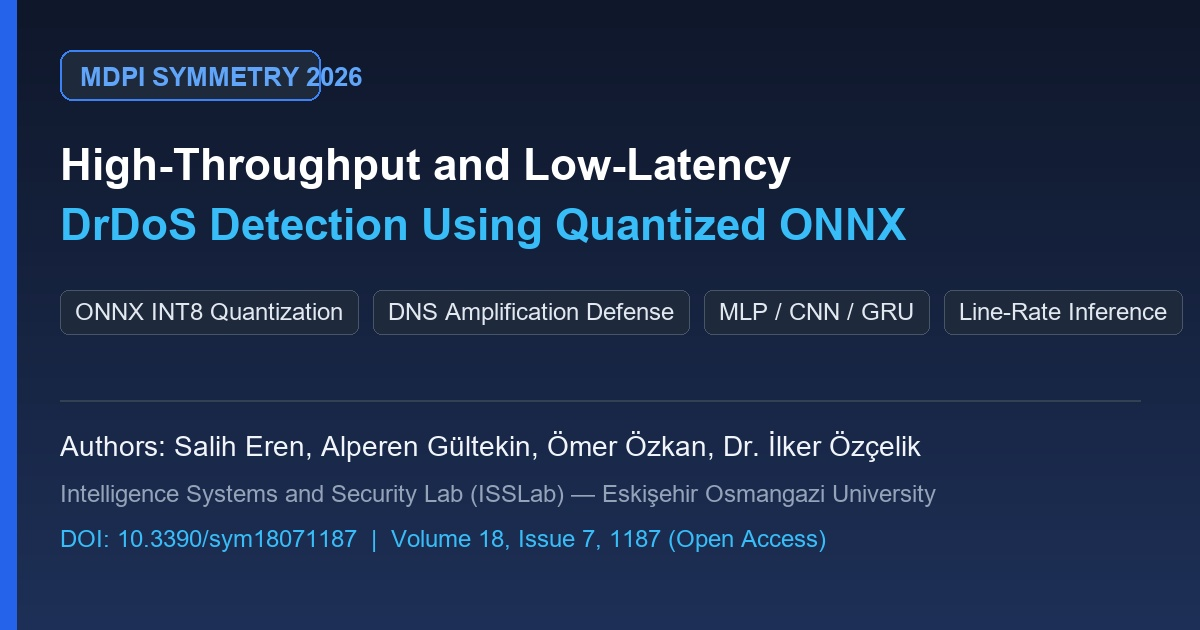
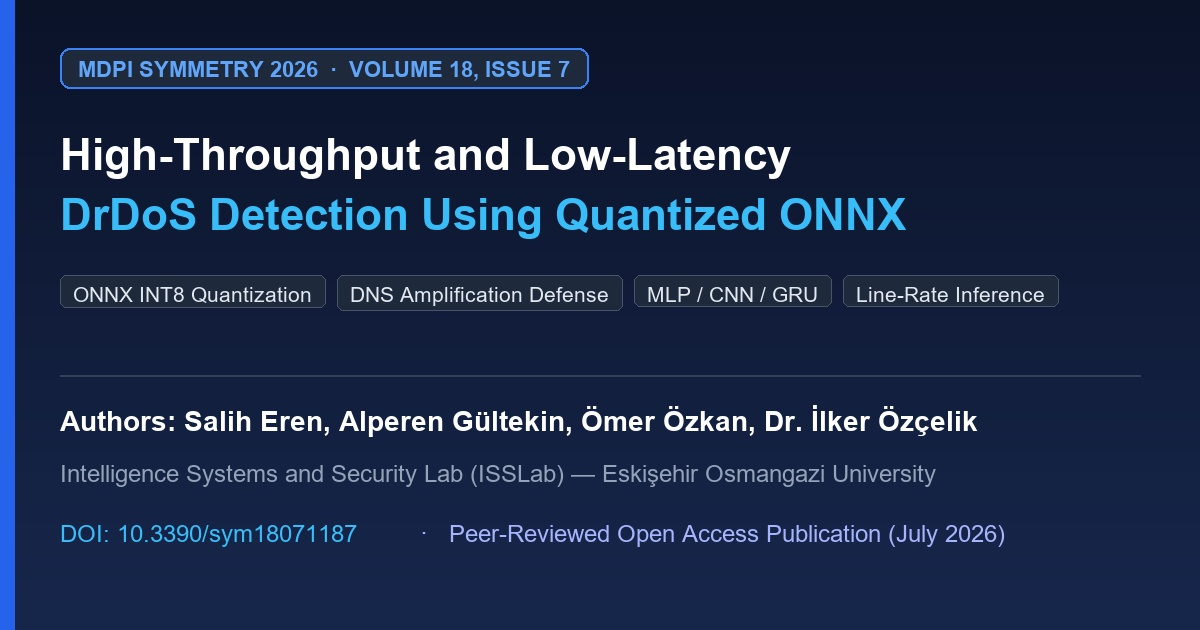
Update

Changed region(s): [[0.0, 0.0, 0.925, 1.0], [0.0617, 0.4524, 0.9867, 0.5127], [0.0617, 0.573, 0.925, 0.6032]]

diff --git a/content/_newsfeed/2026-02-15-isslab-ogrenci-ve-arastirmaci-daveti.md b/content/_newsfeed/2026-02-15-isslab-ogrenci-ve-arastirmaci-daveti.md
@@ -12,23 +12,25 @@ linkedin_url: "https://www.linkedin.com/groups/9539313/"
 The **Intelligent Systems Security Research Laboratory (ISSLab)** at Eskişehir Osmangazi University invites motivated undergraduate and graduate student researchers to join our team in network security, AI-assisted cyber defense, quantized deep learning models, blockchain architectures, and IoT security!
 
 <div class="my-4 text-center">
-  <img src="/assets/images/news/call-for-projects.jpg" alt="ISSLab 2026 Call for Projects" class="img-fluid rounded shadow-sm" style="max-height: 380px; object-fit: cover;">
+  <a href="https://www.youtube.com/watch?v=w57ojUBgFFE" target="_blank" rel="noopener noreferrer">
+    <img src="/assets/images/news/call-for-projects.jpg" alt="ISSLab 2026 Call for Projects" class="img-fluid rounded shadow-sm" style="max-height: 380px; object-fit: cover;">
+  </a>
   <p class="text-muted small mt-2"><em>ISSLab 2026 Community Call for Projects and Student Mentorship</em></p>
 </div>
 
 Researchers at ISS Lab take active roles in **TÜBİTAK 3501**, **TÜBİTAK 2209-A/B**, and **DorukNet** industry-collaborative projects, with opportunities to contribute directly to international conferences and high-impact journals.
 
-#### Open Research Areas
+#### Ongoing Projects & Research Areas
 
-- **Network Security & Traffic Monitoring:** Flowzen architecture, SDN data planes, P4 programming, high-throughput zero-copy packet capture, and real-time anomaly detection.
-- **AI-Powered Cyber Defense:** Quantized ONNX models for DrDoS mitigation, deep learning IP spoofing classifiers, and Graph Neural Networks (GNN) for botnet detection.
-- **Blockchain & Distributed Systems:** Cryptographic accumulators, the BEATS audit trail architecture, and decentralized identity verification.
-- **Embedded Systems & IoT Security:** Hardware-level Elliptic Curve Cryptography (ECC) acceleration on STM32 microcontrollers.
+- **Scalable Edge Authentication Framework (TÜBİTAK 3501):** [View Project Details](/projects/Research_Project_1/) · [Official Portal](https://issedgeauthentication.wordpress.com/)
+- **ISS — DorukNet Data Center Security (Flowzen & Iris):** [View Project Details](/projects/Research_Project_2/) · [Official Portal](https://issdatacentersecurity.wordpress.com/)
+- **Digital Twin Based Smart Attack Detection:** [View Project Details](/projects/Research_Project_4/) · [Research Hub](https://esoguiss.wordpress.com/intelligent-systems/)
+- **BEATS — Practical Blockchain Audit Trail:** [View Project Details](/projects/Research_Project_5/) · [Research Hub](https://esoguiss.wordpress.com/distributed-systems/)
 
 #### Participation & Channel Links
 
 1. 📺 **YouTube Video & Seminar Archive:** Watch our lab vision and technical presentations:  
-   👉 [YouTube: @isslab_tr](https://www.youtube.com/watch?v=w57ojUBgFFE)
+   👉 [YouTube: Watch Call for Projects Video](https://www.youtube.com/watch?v=w57ojUBgFFE)
 
 2. 💼 **LinkedIn ISSLab Community Group:** Join our professional network for academic announcements and research opportunities:  
    👉 [LinkedIn: ISSLab Community Group](https://www.linkedin.com/groups/9539313/)

diff --git a/content/_newsfeed/2026-07-14-drdos-quantized-onnx-symmetry.md b/content/_newsfeed/2026-07-14-drdos-quantized-onnx-symmetry.md
@@ -11,18 +11,20 @@ banner_image_source: "/assets/images/news/symmetry-drdos-paper.jpg"
 The latest research by ISS Lab researchers **Salih Eren**, **Alperen Gültekin**, **Ömer Özkan**, and **Dr. İlker Özçelik**, titled *"High-Throughput and Low-Latency DrDoS Detection Using Quantized ONNX Models"*, has been published in **Symmetry (MDPI)**.
 
 <div class="my-4 text-center">
-  <img src="/assets/images/news/symmetry-drdos-paper.jpg" alt="Quantized ONNX DrDoS Detection Paper Banner" class="img-fluid rounded shadow-sm" style="max-height: 400px; object-fit: cover;">
+  <a href="https://doi.org/10.3390/sym18071187" target="_blank" rel="noopener noreferrer">
+    <img src="/assets/images/news/symmetry-drdos-paper.jpg" alt="Quantized ONNX DrDoS Detection Paper Banner" class="img-fluid rounded shadow-sm" style="max-height: 420px; object-fit: cover;">
+  </a>
   <p class="text-muted small mt-2"><em>MDPI Symmetry 2026: High-Throughput and Low-Latency DrDoS Detection Using Quantized ONNX Models</em></p>
 </div>
 
 This work addresses the critical challenge of Distributed Reflection Denial of Service (DrDoS) attacks, such as DNS Amplification, which exploit protocol asymmetries to saturate network capacity. To achieve wire-speed defense, the team conducted a systematic comparison of **ONNX (Open Neural Network Exchange)** compilation and static integer quantization (INT8) across **Multi-Layer Perceptron (MLP)**, **Convolutional Neural Network (CNN)**, and **Gated Recurrent Unit (GRU)** architectures.
 
-The findings demonstrate that statically quantized ONNX models deliver microsecond-level per-sample inference latency and high throughput scalability on resource-constrained platforms, providing a concrete blueprint for line-rate intrusion detection systems.
+The findings demonstrate that statically quantized ONNX models deliver microsecond-level per-sample inference latency and high throughput scalability on resource-constrained platforms, providing a concrete deployment blueprint for line-rate intrusion detection systems.
 
-#### Publication Details
+#### Publication & Research Links
 
-- **Authors:** Salih Eren, Alperen Gültekin, Ömer Özkan, Dr. İlker Özçelik
-- **Journal:** *Symmetry*, 2026, 18(7), 1187 (Open Access)
-- **DOI Link:** [10.3390/sym18071187](https://doi.org/10.3390/sym18071187)
-- **Related Project:** [Digital Twin & Intelligent Defense](/projects/)
+- **DOI Publication Link:** [10.3390/sym18071187 (MDPI Open Access)](https://doi.org/10.3390/sym18071187)
+- **Related Project Page:** [Digital Twin Based Smart Attack Detection](/projects/Research_Project_4/)
+- **Related Project Page:** [Flowzen & Iris Telemetry Architecture](/projects/Research_Project_2/)
+- **Research Portal:** [esoguiss.wordpress.com/intelligent-systems](https://esoguiss.wordpress.com/intelligent-systems/)
 - **YouTube Channel:** [@isslab_tr](https://www.youtube.com/@isslab_tr/videos)

diff --git a/content/_newsfeed/2025-10-01-isslab-seminar-serisi.md b/content/_newsfeed/2025-10-01-isslab-seminar-serisi.md
@@ -6,27 +6,30 @@ description: "Graduate research seminars hosted at ISS Lab covering network defe
 event_type: news
 image: "/assets/images/news/seminar-series.jpg"
 banner_image_source: "/assets/images/news/seminar-series.jpg"
+youtube_url: "https://www.youtube.com/@isslab_tr/videos"
 ---
 
 The **ISS Lab Research Seminar Series** features presentations by graduate and undergraduate researchers at Eskişehir Osmangazi University. Seminars cover core research themes including software-defined network monitoring, AI-powered intrusion detection, blockchain audit trails, and IoT edge cryptography.
 
 <div class="my-4 text-center">
-  <img src="/assets/images/news/seminar-series.jpg" alt="ISS Lab Research Seminars" class="img-fluid rounded shadow-sm" style="max-height: 380px; object-fit: cover;">
+  <a href="https://www.youtube.com/@isslab_tr/videos" target="_blank" rel="noopener noreferrer">
+    <img src="/assets/images/news/seminar-series.jpg" alt="ISS Lab Research Seminars" class="img-fluid rounded shadow-sm" style="max-height: 380px; object-fit: cover;">
+  </a>
   <p class="text-muted small mt-2"><em>Weekly ISS Lab Graduate Presentations & Technical Webcasts</em></p>
 </div>
 
 All seminar recordings and technical tutorials are openly accessible on our official YouTube channel.
 
-#### Featured Seminar Topics
+#### Featured Seminar Topics & Related Projects
 
-- Deep learning methods for real-time IP spoofing detection
-- Quantized ONNX neural network inference for DrDoS mitigation
-- Graph Neural Networks (GNN) for botnet node identification
-- Elliptic Curve Cryptography (ECC) authentication architectures
-- Embedded firmware security and cryptographic benchmarking on STM32
+- **Quantized ONNX Neural Network Inference for DrDoS Mitigation:** [Digital Twin & AI Defense Project](/projects/Research_Project_4/)
+- **Graph Neural Networks (GNN) for Botnet Node Identification:** [Adversarial Attacks Seminar Post](/blog/2025-12-20-seminar-adversarial-attacks-gnn/)
+- **Deep Learning Methods for Real-Time IP Spoofing Detection:** [Flowzen Project Details](/projects/Research_Project_2/)
+- **Elliptic Curve Cryptography (ECC) Authentication Architectures:** [Edge Authentication Project](/projects/Research_Project_1/)
+- **Blockchain Audit Trail Architectures:** [BEATS Project Details](/projects/Research_Project_5/)
 
 #### Links & Video Archive
 
 - **YouTube Seminar Archive:** [@isslab_tr](https://www.youtube.com/@isslab_tr/videos)
 - **ISS Lab Research Hub:** [esoguiss.wordpress.com](https://esoguiss.wordpress.com/)
-- **Community Page:** [ISSLAB Community](/community/)
+- **Community Hub & Video Archive:** [ISSLAB Community](/community/)

diff --git a/content/_newsfeed/2025-11-12-flowzen-iscturkiye-2025.md b/content/_newsfeed/2025-11-12-flowzen-iscturkiye-2025.md
@@ -33,7 +33,9 @@ Developed with the support of **DorukNet**, Flowzen is a cloud-native, high-thro
 
 #### Links & Resources
 
+- **Project Details Page:** [ISS — DorukNet Data Center Security (Flowzen)](/projects/Research_Project_2/)
+- **Project Official Portal:** [issdatacentersecurity.wordpress.com](https://issdatacentersecurity.wordpress.com/)
 - **IEEEXplore Paper:** [Flowzen: Modular and Scalable Network Monitoring Platform](https://lnkd.in/dyp5rjQ2)
 - **LinkedIn Announcement:** [Dr. İlker Özçelik — ISCTURKIYE 2025 Announcement](https://www.linkedin.com/posts/ozcelikilker_btk-iaovsctaesrkiye-flowzen-activity-7394380988484665344-IFJS)
-- **Project Page:** [Flowzen — Data Center Security](/projects/)
+- **Industry Partner:** [DorukNet (doruk.net.tr)](https://www.doruk.net.tr/)
 - **YouTube Channel:** [@isslab_tr](https://www.youtube.com/@isslab_tr/videos)

diff --git a/content/_newsfeed/2025-12-20-seminar-adversarial-attacks-gnn.md b/content/_newsfeed/2025-12-20-seminar-adversarial-attacks-gnn.md
@@ -31,5 +31,6 @@ This seminar examines:
 #### Links & Resources
 
 - ▶ **Watch Full Video on YouTube:** [Graf Sinir Ağlarına Karşı Çekişmeli Saldırılar](https://www.youtube.com/watch?v=tXkzQgZWeT8)
-- **Related Project:** [Digital Twin Based Smart Attack Detection](/projects/)
-- **Related Paper:** [Botnet Node Detection Using Graph Learning (DOI: 10.3390/app16010024)](https://doi.org/10.3390/app16010024)
+- **Related Project Page:** [Digital Twin Based Smart Attack Detection](/projects/Research_Project_4/)
+- **Research Portal:** [esoguiss.wordpress.com/intelligent-systems](https://esoguiss.wordpress.com/intelligent-systems/)
+- **Related Publication:** [Botnet Node Detection Using Graph Learning (DOI: 10.3390/app16010024)](https://doi.org/10.3390/app16010024)
